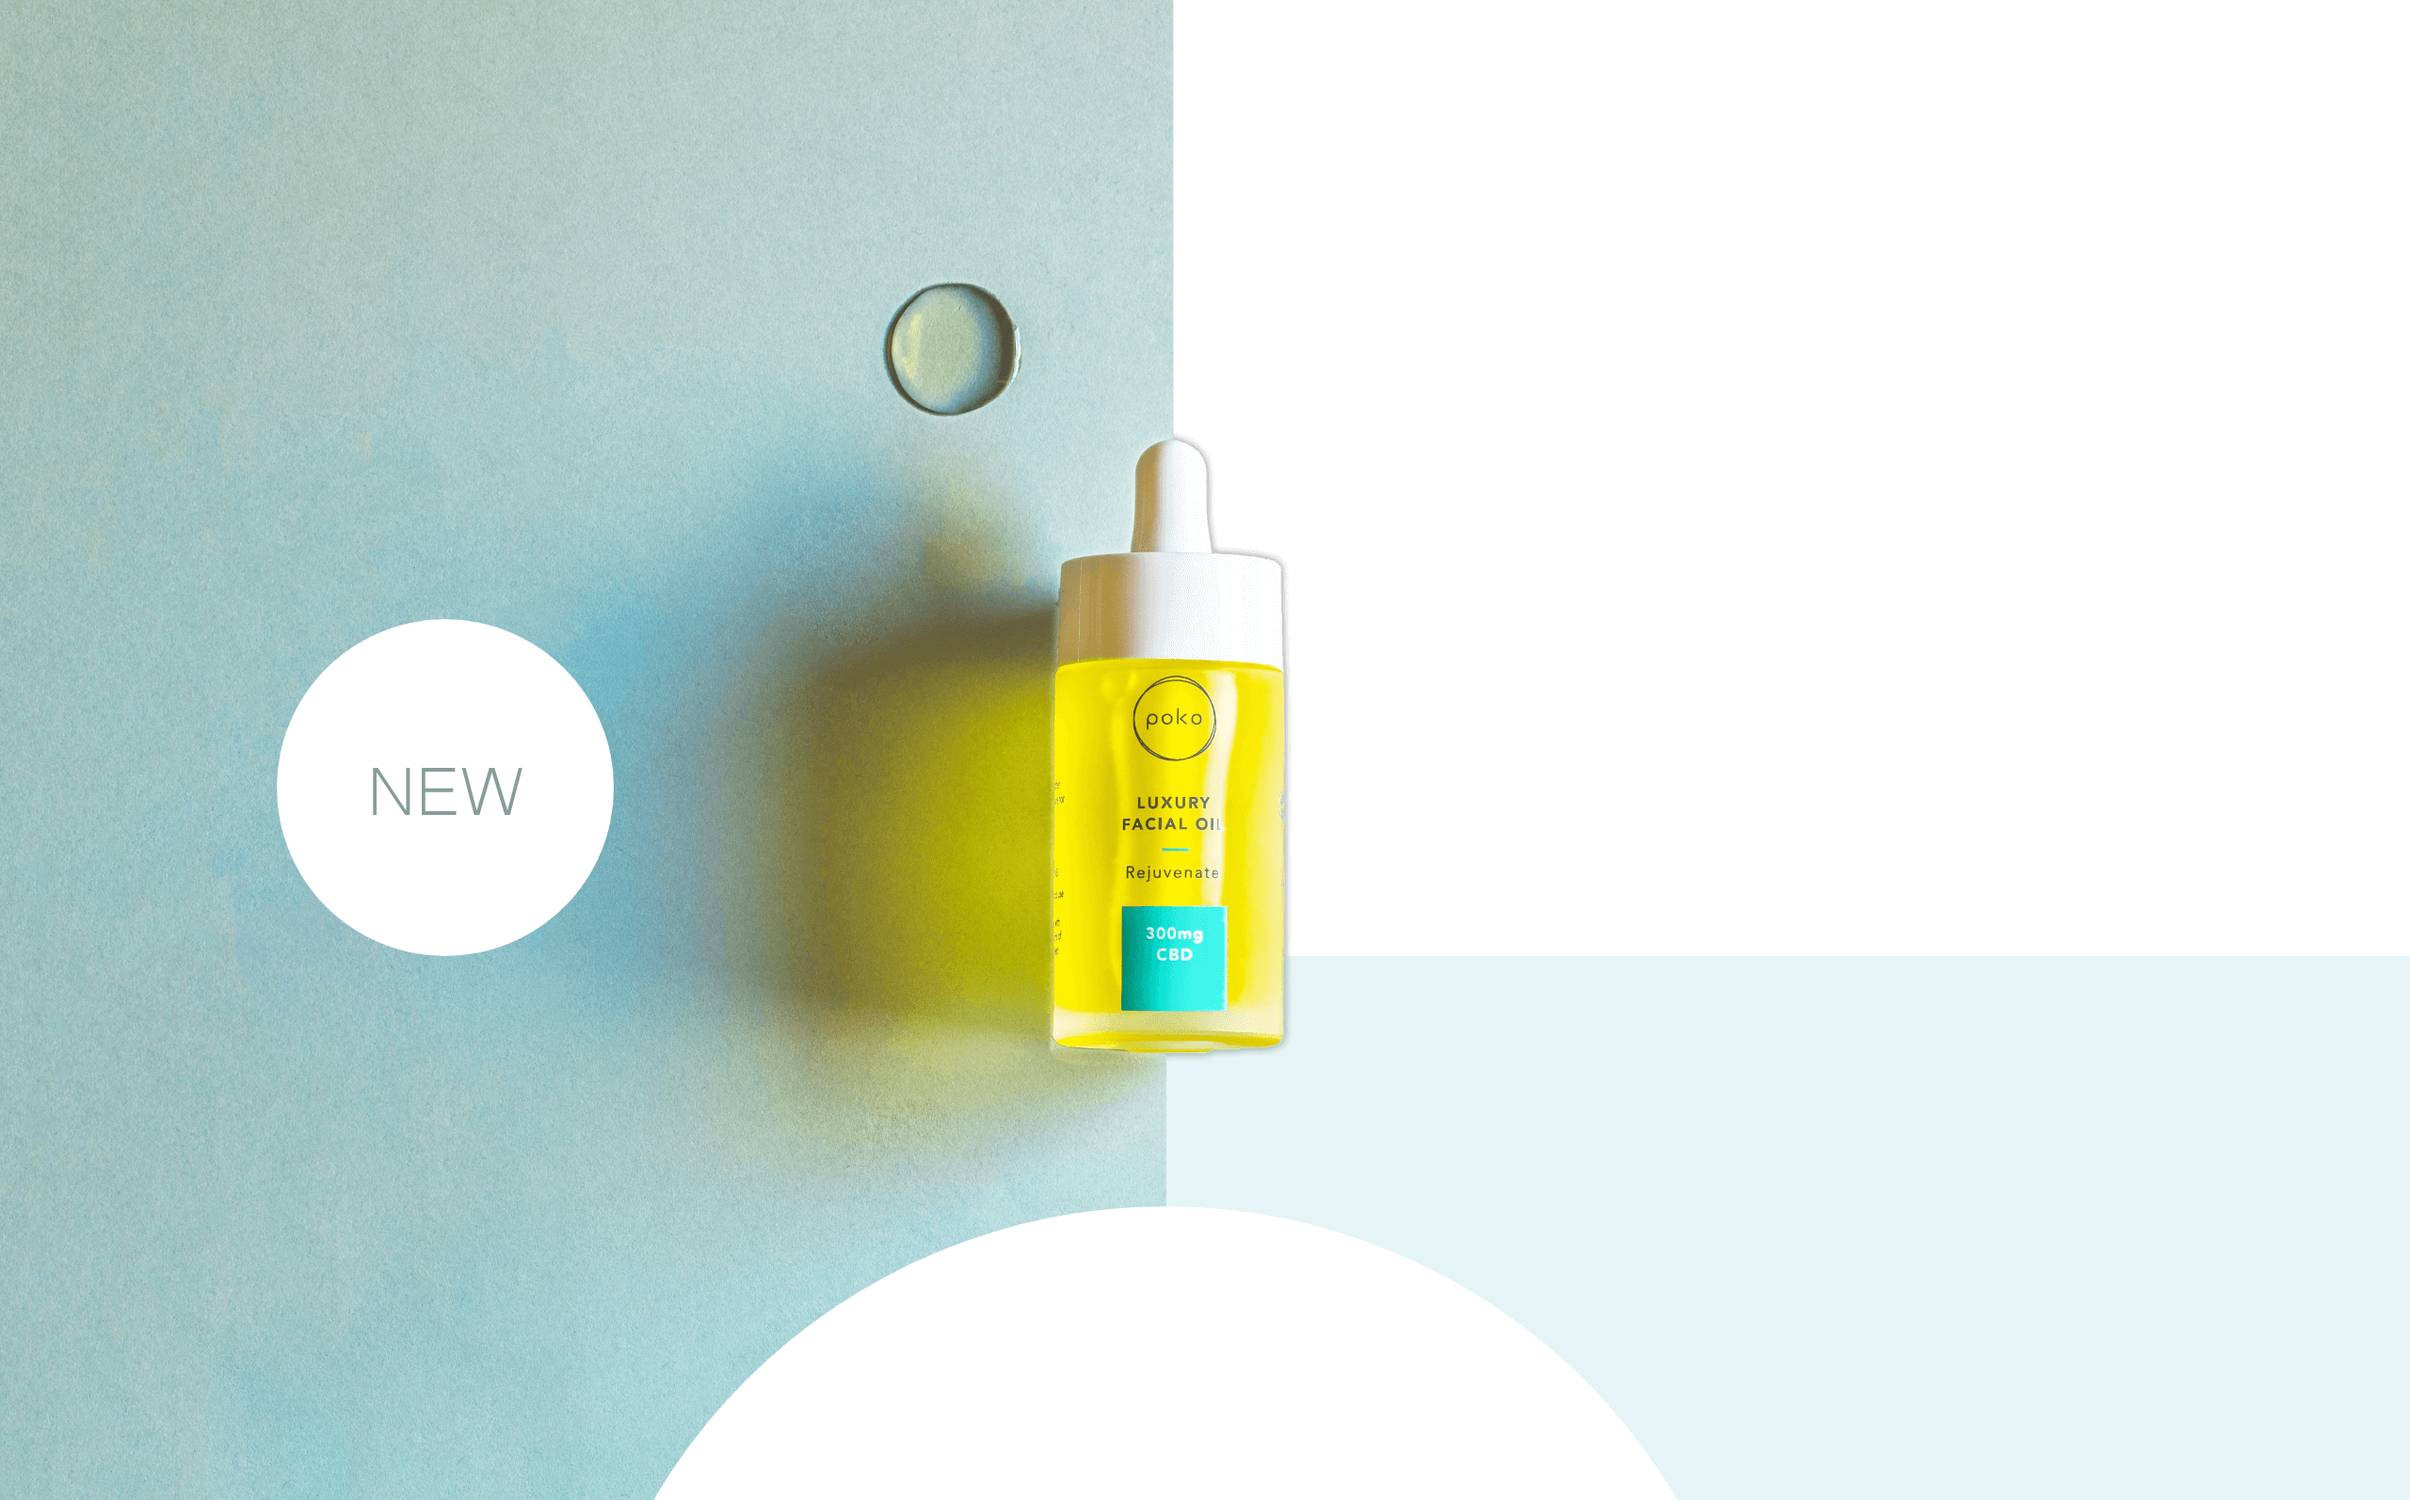
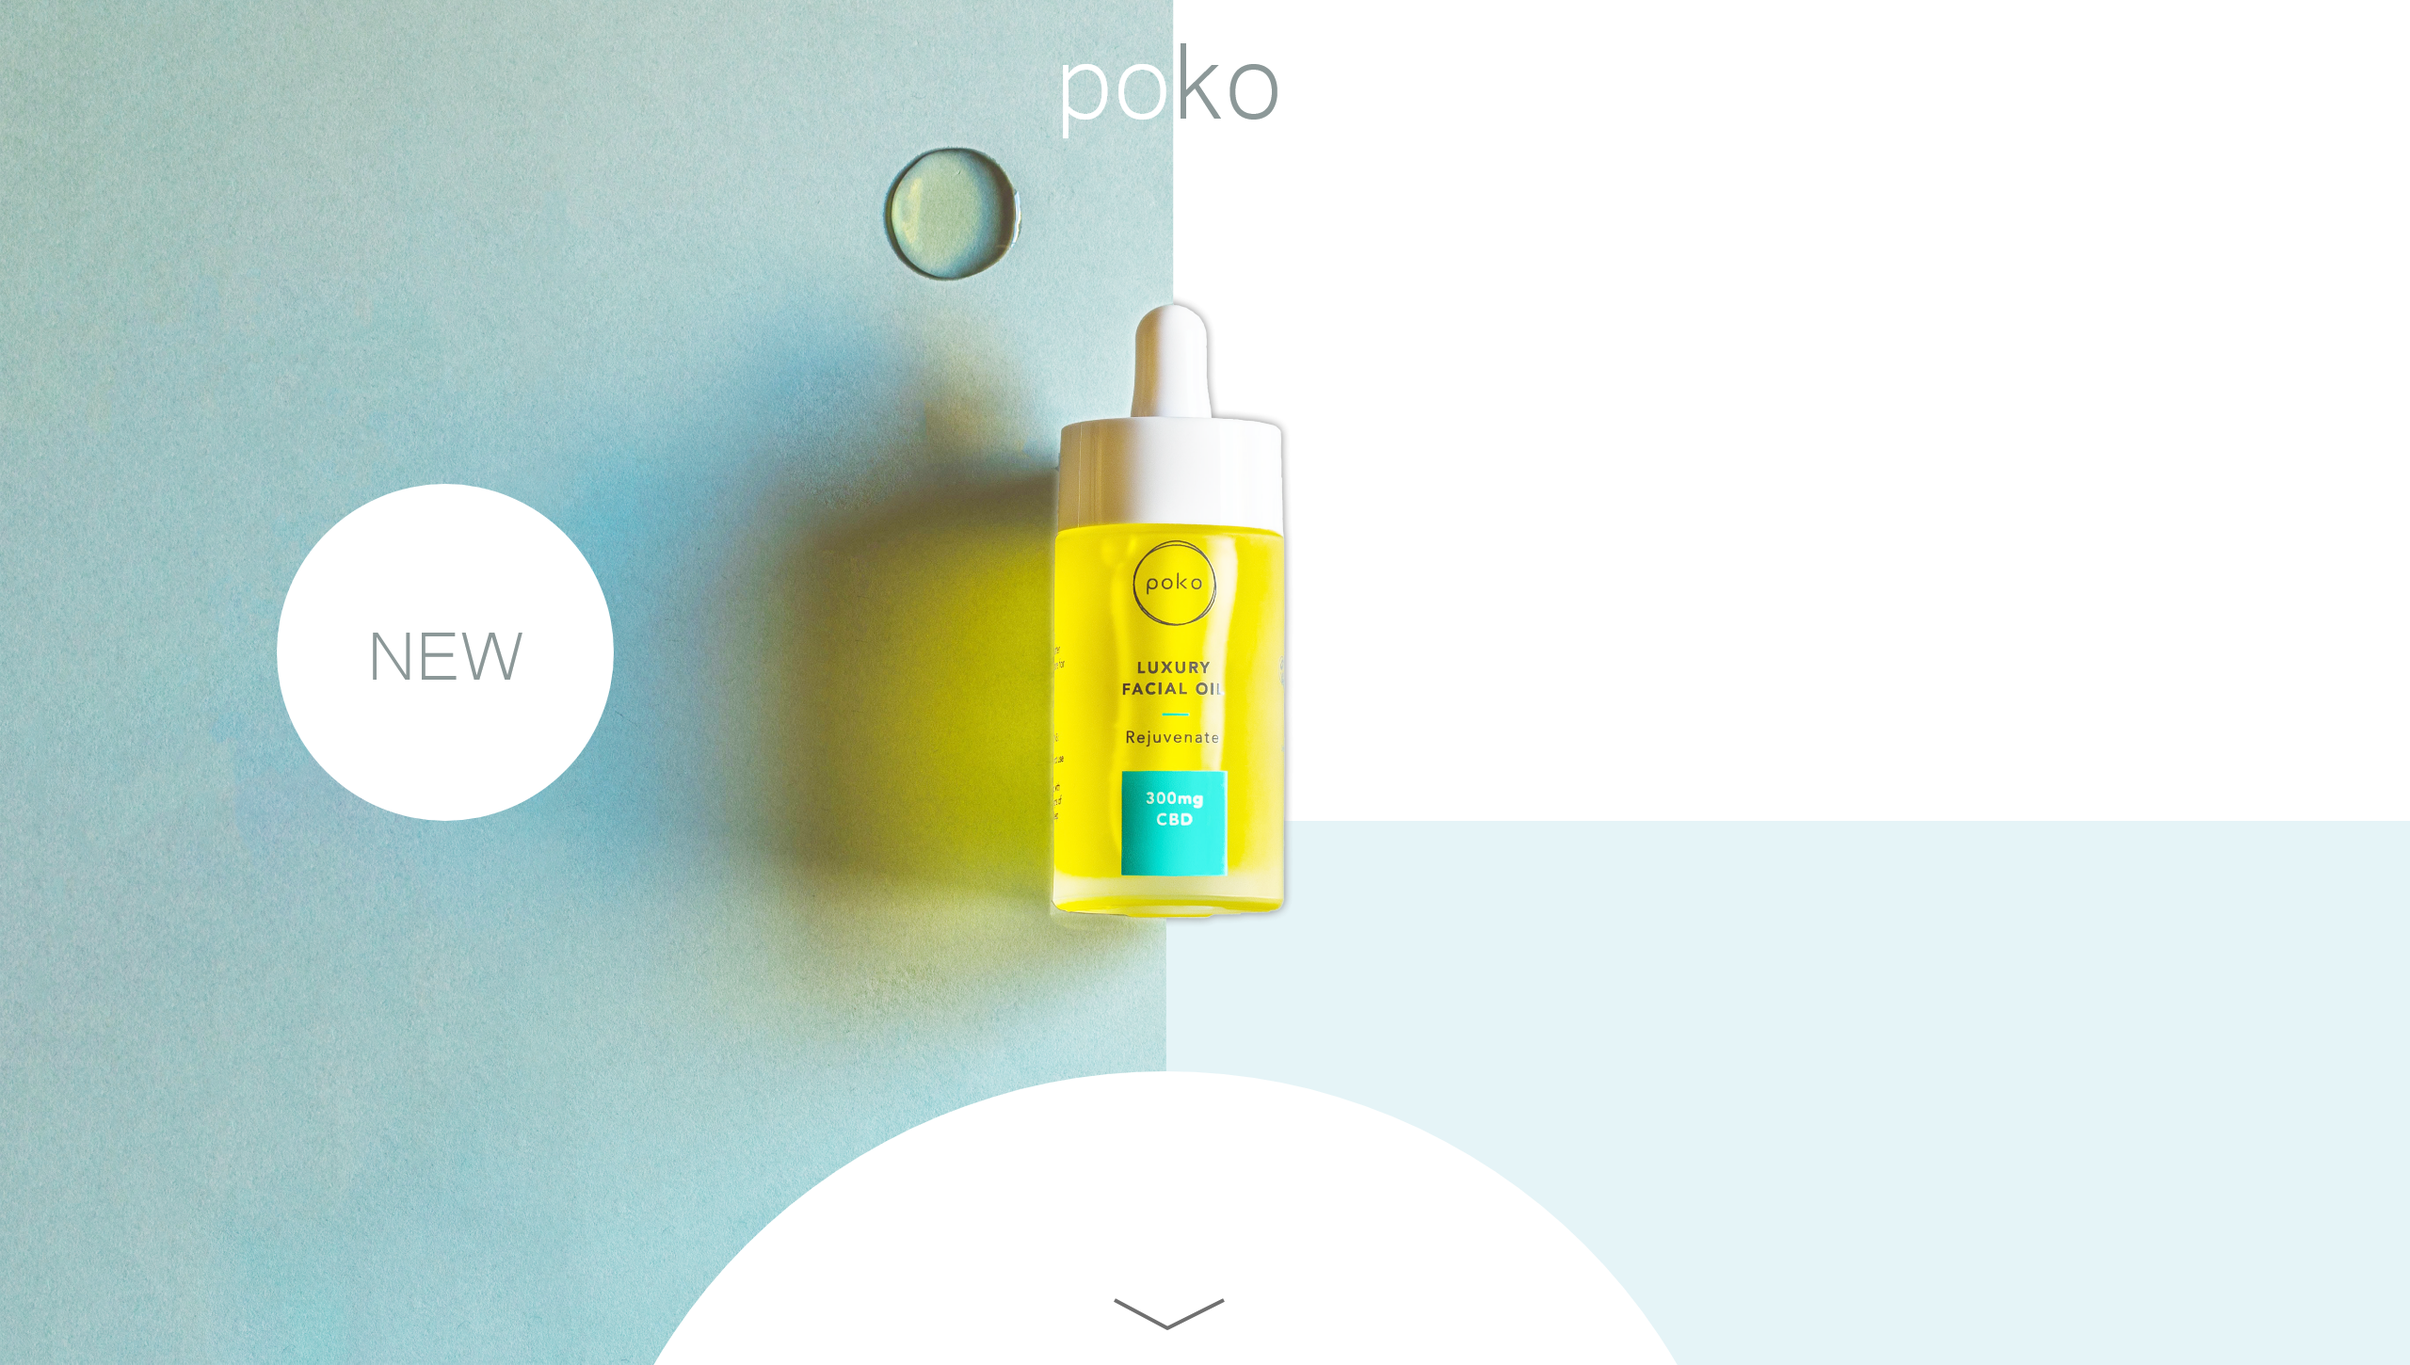
トップ画像とテキスト追加

diff --git a/main/main.css b/main/main.css
@@ -1,0 +1,82 @@
+@charset "utf-8";
+@import url('https://fonts.googleapis.com/css2?family=Klee+One:wght@400;600&display=swap');
+@import url('https://fonts.googleapis.com/css2?family=Open+Sans:wght@300;400;500&display=swap');
+
+body {
+    font-size: 14px;
+    font-family: 'Klee One', cursive;
+    font-weight: 400;
+    margin: 0;
+}
+
+header {
+    width: auto;
+    max-width: 1280px;
+    display: flex;
+    justify-content: space-between;
+    margin: 0 auto;
+    align-items: center;
+}
+
+#headerlogo {
+    font-size: 200%;
+    margin: 0;
+}
+
+#headerlogo p {
+    margin: 0 auto;
+}
+
+#top {
+    width: auto;
+    margin: 0 auto;
+
+}
+
+#top-bg {
+    position: relative;
+}
+
+#top img {
+    width: 100%;
+}
+
+#top-bg p {
+    position: absolute;
+    top: 0;
+}
+
+#toptext p:nth-child(1) {
+    font-family: 'Open Sans', sans-serif;
+    top: 12%;
+    right: 14%;
+    font-size: 3.5vw;
+    font-weight: 200;
+}
+
+#toptext p:nth-child(2) {
+    top: 22.45%;
+    right: 16.5%;
+    font-size: 1.2vw;
+}
+
+#toptext p:nth-child(3) {
+    top: 28%;
+    right: 2.5%;
+    font-size: 3vw;
+    font-weight: 200;
+}
+
+#toptext2 p:nth-child(1) {
+    left: 35vw;
+    top: 84%;
+    font-size: 2vw;
+}
+
+#question img {
+    display: block;
+    margin: 200px auto;
+    padding-right: 64px;
+    width: 100%;
+    max-width: 1097px;
+}

diff --git a/index.html b/index.html
@@ -4,30 +4,31 @@
     <meta charset="UTF-8">
     <meta http-equiv="X-UA-Compatible" content="IE=edge">
     <meta name="viewport" content="width=device-width, initial-scale=1.0">
+    <link rel="stylesheet" href="main/main.css">
     <title>poko face oil</title>
 </head>
 <body>
-<header>
+<!-- <header>
     <div id="headerlogo">
         <p>poko</p>
     </div>
     <div id="menubar">
-        <img src="main/img/hamb-img.png" alt="メニューボタン">
+        <img src="main/img/hamb-img.png" width="32" alt="メニューボタン">
     </div>
-</header>
+</header> -->
 <article id="top">
 <div id="top-bg">
     <img src="main/img/top-img.png" alt="">
-</div>
 <div id="toptext">
     <p>FACIAL OIL</p>
     <p>贅沢スキンケアオイル</p>
     <p>プラス一滴でハリのある肌へ</p>
 </div>
-<div>
-    <p>こんなお悩みありませんか？</p>
-    <p><img src="main/img/topdown-img.png"></p>
+<div id="toptext2">
+        <p>こんなお悩みありませんか？</p>
+    </div>
 </div>
+
 </article>
 <article id="question">
 <img src="main/img/down-img.png" alt="">
